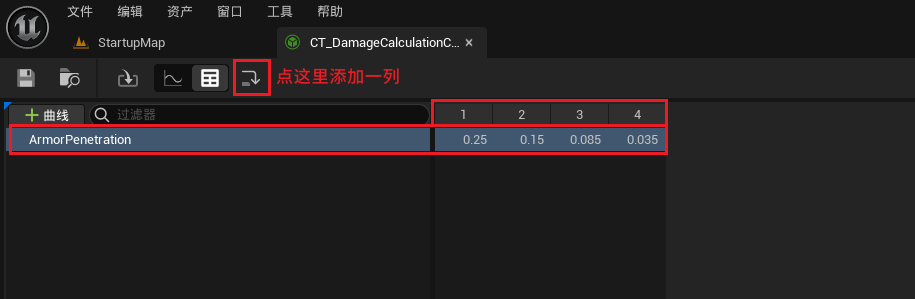
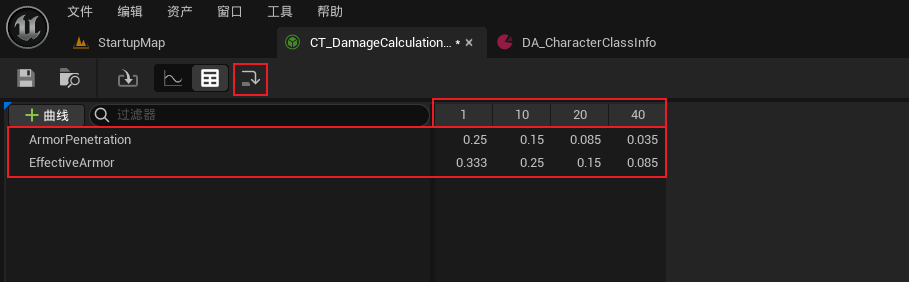
temp064

diff --git a/UECPP/Models/GAS/GAS_2_Aura/DetailContent/临时的/GAS_064.md b/UECPP/Models/GAS/GAS_2_Aura/DetailContent/临时的/GAS_064.md
@@ -2,7 +2,7 @@ ________________________________________________________________________________
 ###### [Go主菜单](../MainMenu.md)
 ___________________________________________________________________________________________
 
-# GAS 064 计算护甲穿透
+# GAS 064 计算护甲穿透;捕获Source和Target属性；C++中获取曲线表格数据
 
 ___________________________________________________________________________________________
 
@@ -18,7 +18,18 @@ ________________________________________________________________________________
 # 目录
 
 
-[TOC]
+- [GAS 064 计算护甲穿透](#gas-064-计算护甲穿透)
+  - [处理关键点](#处理关键点)
+- [目录](#目录)
+    - [Mermaid整体思路梳理：在ExecutionCalculations中获取使用曲线表格](#mermaid整体思路梳理在executioncalculations中获取使用曲线表格)
+    - [捕获 源 `Source` 的护甲穿透](#捕获-源-source-的护甲穿透)
+    - [获取 捕获属性的 `float` 值，并进行 `夹值` 处理](#获取-捕获属性的-float-值并进行-夹值-处理)
+    - [计算护甲穿透](#计算护甲穿透)
+  - [上面我们用硬编码(固定值)处理了护甲穿透的计算，下面是将硬编码换成曲线表格，使用动态数值计算](#上面我们用硬编码固定值处理了护甲穿透的计算下面是将硬编码换成曲线表格使用动态数值计算)
+    - [创建配置的表格替换计算用到的硬编码(固定值)](#创建配置的表格替换计算用到的硬编码固定值)
+    - [在ExecutionCalculations中获取CharacterClasslnfo](#在executioncalculations中获取characterclasslnfo)
+    - [断点调试，测试结果](#断点调试测试结果)
+
 
 
 ___________________________________________________________________________________________
@@ -491,7 +502,7 @@ classDiagram
 	//拿到表格行EffectiveArmor
 	FRealCurve* CurveRow_EffectiveArmor =  Curve->FindCurve(FName("EffectiveArmor"),TEXT("ArmorPenetration Is Not Find"));
 	check(CurveRow_EffectiveArmor);
-	float EffectiveArmorCoefficient = CurveRow_EffectiveArmor->Eval(Source_ICombatInterface->GetPlayerLevel());
+	float EffectiveArmorCoefficient = CurveRow_EffectiveArmor->Eval(Target_ICombatInterface->GetPlayerLevel());
 
 	/*
 	 * 下面是计算
@@ -578,7 +589,7 @@ classDiagram
 >	//拿到表格行EffectiveArmor
 >	FRealCurve* CurveRow_EffectiveArmor =  Curve->FindCurve(FName("EffectiveArmor"),TEXT("ArmorPenetration Is Not Find"));
 >	check(CurveRow_EffectiveArmor);
->	float EffectiveArmorCoefficient = CurveRow_EffectiveArmor->Eval(Source_ICombatInterface->GetPlayerLevel());
+>	float EffectiveArmorCoefficient = CurveRow_EffectiveArmor->Eval(Target_ICombatInterface->GetPlayerLevel());
 >
 >	/*
 >	 * 下面是计算
@@ -609,13 +620,32 @@ classDiagram
 <details>
 <summary>断点调试</summary>
 
->![](./GAS_064/10.PNG)
+>![](./GAS_064/12.PNG)
 >
->![](./GAS_064/11.PNG)
+>![](./GAS_064/13.PNG)
 >
 >![](./GAS_064/12.PNG)
 >
 >![](./GAS_064/13.PNG)
+>
+>![](./GAS_064/14.PNG)
+>
+>![](./GAS_064/15.PNG)
+>
+>![](./GAS_064/16.PNG)
+>
+>### 修改主角PS上的等级和敌人等级，再测试
+>
+>- **主角PS上的等级 —— 影响的是 护甲穿透**
+>- **敌人等级 —— 影响的是目标的护甲**
+>
+>![](./GAS_064/17.PNG)
+>
+>![](./GAS_064/18.PNG)
+>
+>![](./GAS_064/19.PNG)
+>
+>![](./GAS_064/20.PNG)
 
 ------
 
